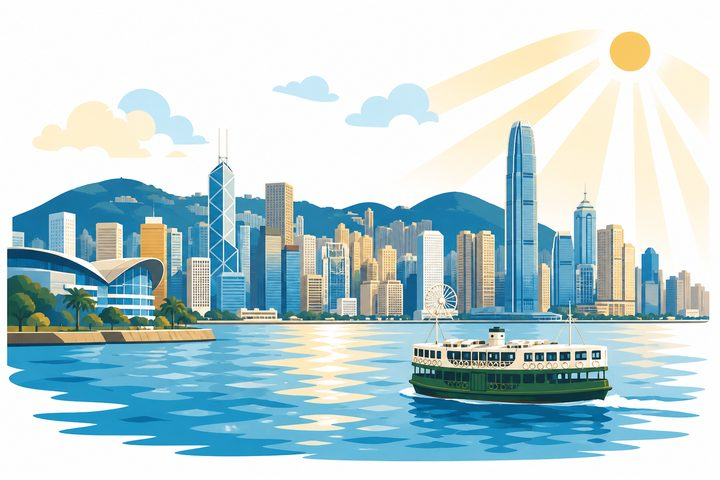
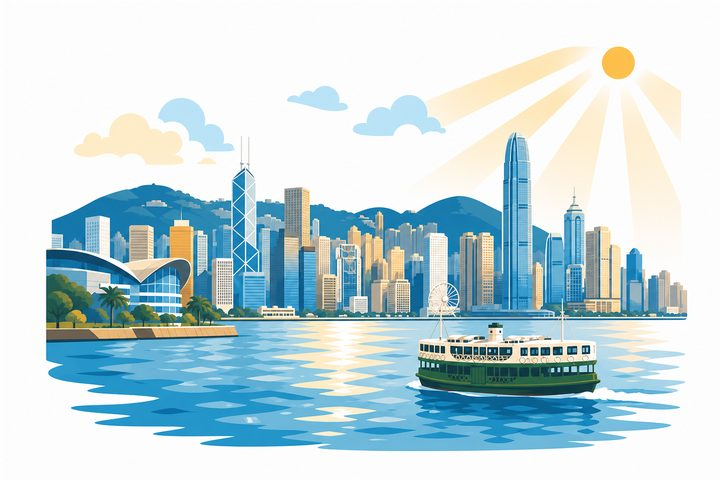
更新第1章筆記：修正列印邊界與分頁，並統一插畫尺寸

diff --git a/econ_notes/ch01_basic_concepts.html b/econ_notes/ch01_basic_concepts.html
@@ -10,6 +10,7 @@
   --danger:#dc2626;--success:#16a34a;--warning:#f59e0b;--purple:#7c3aed;
   --bg:#f7f9fc;--card:#fff;--border:#e2e8f0;--text:#1e293b;--muted:#64748b;
   --radius:12px;
+  --illo-max-h:13.6em;
 }
 *{box-sizing:border-box}
 body{font-family:system-ui,sans-serif;margin:0;color:var(--text);background:var(--bg);line-height:1.7}
@@ -49,9 +50,9 @@ li{margin:0 0 6px}
 .chip{background:#eef2ff;border:1px solid #c7d2fe;border-radius:8px;padding:8px 12px;font-size:13px;font-weight:600}
 .arrow{color:var(--muted);font-weight:700}
 .illo{display:grid;grid-template-columns:1fr 28px 1fr 28px 1fr;gap:8px;align-items:stretch;margin:14px 0 18px;padding:12px;background:#f8fafc;border:1px solid var(--border);border-radius:12px}
-.illo-step{background:#fff;border:1px solid var(--border);border-radius:10px;padding:12px 10px;text-align:center}
-.illo-step img{display:block;width:100%;height:auto;border-radius:8px;aspect-ratio:4/3;object-fit:contain;background:#f8fafc}
-.scene img{display:block;width:100%;max-width:640px;height:auto;margin:0 auto;border-radius:10px;background:#fff}
+.illo-step{background:#fff;border:1px solid var(--border);border-radius:10px;padding:16px 14px;text-align:center}
+.illo-step img{display:block;width:auto;max-width:100%;max-height:var(--illo-max-h);height:auto;margin:0 auto;border-radius:8px;object-fit:contain;background:#f8fafc}
+.scene img{display:block;width:auto;max-width:100%;max-height:var(--illo-max-h);height:auto;margin:0 auto;border-radius:10px;background:#fff;object-fit:contain}
 .scene-pair{display:grid;grid-template-columns:1fr 1fr;gap:8px;margin:8px 0 0;font-size:13px;font-weight:700;color:var(--primary-dark);text-align:center}
 .illo-step .ttl{margin:8px 0 0;font-size:13px;font-weight:700;color:var(--primary-dark);line-height:1.35}
 .illo-step .sub{margin:4px 0 0;font-size:12px;font-weight:500;color:var(--muted);line-height:1.4}
@@ -62,12 +63,12 @@ li{margin:0 0 6px}
 .drill .q:last-child{margin:0}
 .drill .mark{margin:0 0 6px;font-size:11px;font-weight:700;letter-spacing:.04em;text-transform:uppercase;color:var(--primary-dark)}
 .drill .why{margin:8px 0 0;font-size:14px;color:var(--muted)}
-.scene{margin:14px 0 18px;padding:12px;background:#f8fafc;border:1px solid var(--border);border-radius:12px}
+.scene{margin:14px 0 18px;padding:16px;background:#f8fafc;border:1px solid var(--border);border-radius:12px}
 .scene svg{display:block;width:100%;max-width:640px;height:auto;margin:0 auto}
 .scene .cap{margin:8px 0 0;font-size:13px;color:var(--muted);text-align:center}
-.grid4{display:grid;grid-template-columns:1fr 1fr;gap:8px;margin:12px 0}
-.grid4 .cell{background:#fff;border:1px solid var(--border);border-radius:10px;padding:10px;text-align:center;font-size:13px}
-.grid4 .cell img{display:block;width:100%;height:auto;border-radius:8px;aspect-ratio:4/3;object-fit:contain;background:#f8fafc;margin:0 0 8px}
+.grid4{display:grid;grid-template-columns:1fr 1fr;gap:12px;margin:12px 0}
+.grid4 .cell{background:#fff;border:1px solid var(--border);border-radius:10px;padding:16px 14px;text-align:center;font-size:13px}
+.grid4 .cell img{display:block;width:auto;max-width:100%;max-height:var(--illo-max-h);height:auto;margin:0 auto 10px;border-radius:8px;object-fit:contain;background:#f8fafc}
 .grid4 .cell strong{display:block;color:var(--primary-dark);margin:4px 0 2px}
 .grid4 .cell .hint{color:var(--muted);font-size:12px}
 .two{display:grid;grid-template-columns:1fr 1fr;gap:12px;margin:12px 0}
@@ -125,19 +126,20 @@ body.draw-on #paper-frame{touch-action:none}
   .illo-arr{transform:rotate(90deg);height:22px}
   .grid4{grid-template-columns:1fr}
 }
-@page{size:A4;margin:16mm 18mm}
+@page{size:A4;margin:20mm 22mm}
 @media print{
   body{background:#fff;-webkit-print-color-adjust:exact;print-color-adjust:exact}
-  .toolbar,.tool-link,.no-print,.lead,.footer-note{display:none!important}
+  .toolbar,.tool-link,.no-print,.lead,.footer-note,#extra-pages,#ink{display:none!important}
   .wrap{max-width:none;padding:0}
-  section{break-inside:avoid;border:1px solid #ccc;margin-bottom:12px}
-  .illo-step img,.scene img{max-width:100%;height:auto}
+  section{break-inside:auto;border:1px solid #ccc;margin-bottom:12px;padding:18px 20px}
+  .def,.exam,.warn,.eg,.drill .q,table,.scene,.illo,.grid4,.two{break-inside:avoid}
+  h2,h3{break-after:avoid}
+  .illo-step img,.scene img,.grid4 .cell img{max-width:100%;max-height:var(--illo-max-h);width:auto;height:auto}
   body.mode-blank .ans,body.mode-click .ans:not(.open){color:transparent;border-bottom:1px solid #000}
   body.mode-click .ans.open{color:#1d4ed8}
   a{color:inherit;text-decoration:none}
   #paper-frame{height:auto!important;overflow:visible}
   #notes-body{position:relative!important;transform:none!important;left:auto!important;width:auto!important;max-width:none!important}
-  #ink{position:absolute}
 }
 </style>
 </head>
@@ -642,22 +644,22 @@ body.draw-on #paper-frame{touch-action:none}
     <p class="en" hidden>A good is anything that can satisfy wants: at least someone wants it, and some is preferred to none. Examples: clean air, food, the internet, bus services. Goods are classified as economic goods or free goods according to whether they are scarce.</p>
     <div class="grid4">
       <div class="cell">
-        <img src="img/ch01-good-sunshine.jpg" alt="" width="360" height="270">
+        <img src="img/ch01-good-sunshine.jpg?v=2" alt="" width="360" height="270">
         <strong><span class="zh">陽光</span><span class="en" hidden>Sunshine</span></strong>
         <span class="hint"><span class="zh">通常：免費物品</span><span class="en" hidden>Usually a free good</span></span>
       </div>
       <div class="cell">
-        <img src="img/ch01-good-orchid.jpg" alt="" width="360" height="270">
+        <img src="img/ch01-good-orchid.jpg?v=2" alt="" width="360" height="270">
         <strong><span class="zh">野生蘭花</span><span class="en" hidden>Wild orchid</span></strong>
         <span class="hint"><span class="zh">天然，但仍是經濟物品</span><span class="en" hidden>Natural, still an economic good</span></span>
       </div>
       <div class="cell">
-        <img src="img/ch01-good-wifi.jpg" alt="" width="360" height="270">
+        <img src="img/ch01-good-wifi.jpg?v=2" alt="" width="360" height="270">
         <strong><span class="zh">校園 Wi-Fi</span><span class="en" hidden>Campus Wi-Fi</span></strong>
         <span class="hint"><span class="zh">對學生免費，對社會是經濟物品</span><span class="en" hidden>Free to students, economic to society</span></span>
       </div>
       <div class="cell">
-        <img src="img/ch01-good-booklet.jpg" alt="" width="360" height="270">
+        <img src="img/ch01-good-booklet.jpg?v=2" alt="" width="360" height="270">
         <strong><span class="zh">Past paper 練習冊</span><span class="en" hidden>Past-paper booklet</span></strong>
         <span class="hint"><span class="zh">經濟物品</span><span class="en" hidden>Economic good</span></span>
       </div>
@@ -1140,13 +1142,26 @@ function visiblePaperCrop(){
     height: Math.max(1, (visBottom - visTop) * sy)
   };
 }
+function extraHasInk(){
+  const extra = $("extra-pages");
+  if(!extra || !extra.children.length) return false;
+  const top = extra.offsetTop;
+  return strokes.some(s => s.points.some(p => p.y >= top - 4));
+}
+function notesExportHeight(hideExtra){
+  if(!hideExtra) return notesBody.scrollHeight;
+  const extra = $("extra-pages");
+  if(!extra || extraHasInk()) return notesBody.scrollHeight;
+  return Math.max(1, extra.offsetTop);
+}
 function overlayInk(octx, crop, scale){
   octx.save();
   octx.setTransform(scale, 0, 0, scale, -crop.x * scale, -crop.y * scale);
   for(const s of strokes) paintStrokeOn(octx, s);
   octx.restore();
 }
-async function rasterPaper(crop, scale){
+async function rasterPaper(crop, scale, opts){
+  const hideExtra = !!(opts && opts.hideExtra);
   const cssW = paperW || notesBody.clientWidth;
   const shot = await window.html2canvas(notesBody, {
     backgroundColor: "#f7f9fc",
@@ -1177,6 +1192,10 @@ async function rasterPaper(crop, scale){
       el.style.maxWidth = cssW + "px";
       el.style.boxSizing = "border-box";
       el.querySelectorAll(".lead,.footer-note").forEach(n => { n.style.display = "none"; });
+      if(hideExtra){
+        const extra = doc.getElementById("extra-pages");
+        if(extra) extra.style.display = "none";
+      }
     }
   });
   const out = document.createElement("canvas");
@@ -1206,14 +1225,15 @@ async function notesToPdf(){
   await loadHtml2Canvas();
   await loadJsPdf();
   fitPaper();
+  const hideExtra = !extraHasInk();
   const cssW = paperW || notesBody.clientWidth;
-  const cssH = notesBody.scrollHeight;
+  const cssH = notesExportHeight(hideExtra);
   const scale = exportScale(cssW);
   const JsPDF = window.jspdf.jsPDF;
   const pdf = new JsPDF({ orientation: "p", unit: "mm", format: "a4", compress: true });
   const pageW = pdf.internal.pageSize.getWidth();
   const pageH = pdf.internal.pageSize.getHeight();
-  const marginMm = 16;
+  const marginMm = 20;
   const innerW = pageW - marginMm * 2;
   const innerH = pageH - marginMm * 2;
   const pageCssH = cssW * (innerH / innerW);
@@ -1228,7 +1248,7 @@ async function notesToPdf(){
       );
       const y = i * pageCssH;
       const h = Math.min(pageCssH, cssH - y);
-      const shot = await rasterPaper({ x: 0, y: y, width: cssW, height: h }, scale);
+      const shot = await rasterPaper({ x: 0, y: y, width: cssW, height: h }, scale, { hideExtra });
       const jpg = shot.toDataURL("image/jpeg", 0.93);
       if(i) pdf.addPage();
       const hMm = (h / cssW) * innerW;
